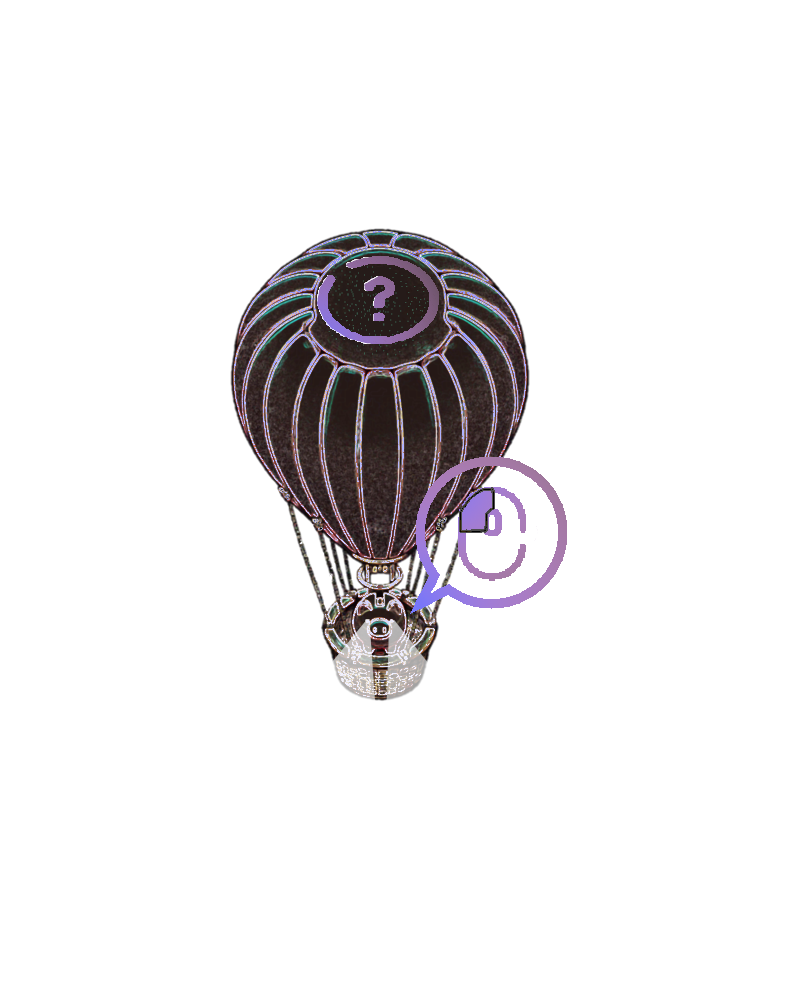
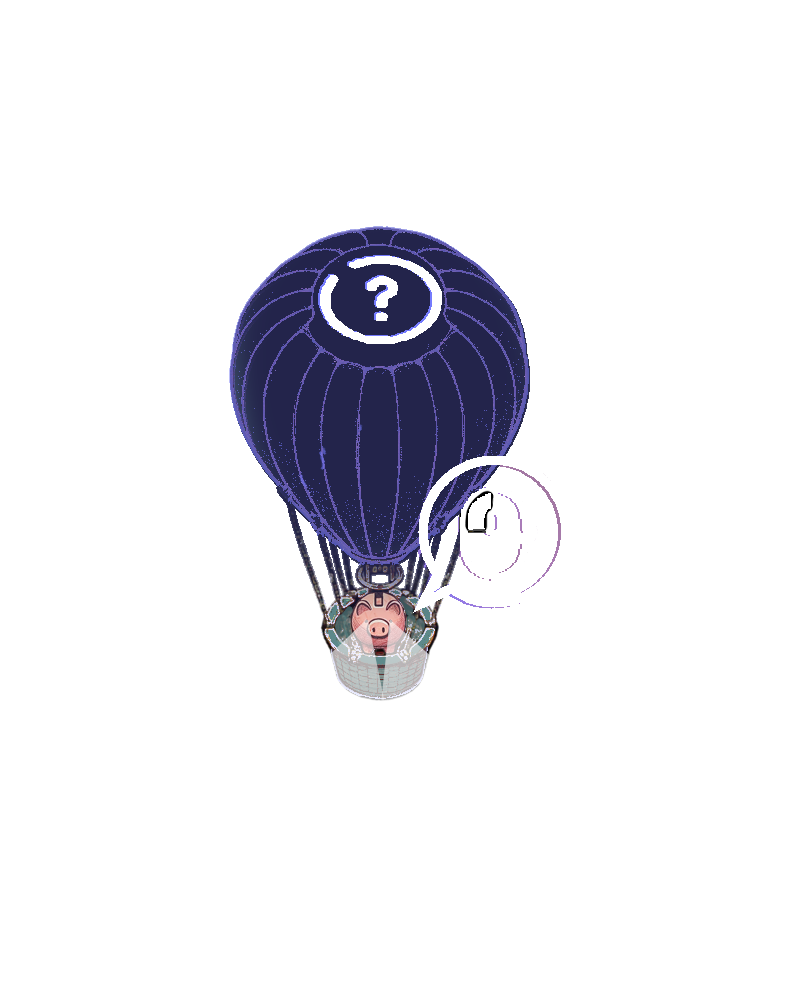
refactor: :dizzy: Dark-balloon refactors
Also made a clickable area of the balloon to ensure that user can't press random transparent parts of the png.

Changed region(s): [[0.2805, 0.217, 0.717, 0.713]]

diff --git a/src/components/frontpage/DailyTipBlimp.vue b/src/components/frontpage/DailyTipBlimp.vue
@@ -1,9 +1,12 @@
 <template>
   <div class="balloon-container">
-    <picture>
-      <img :src="darkMode ? '/BalloonPigDark.png' : '/BalloonPig.png'" alt="Balloon Pig" class="balloon" @click="showPopup = true"/>
+    <div class="clickable-balloon-area">
+      <div class="clickable-area" @click="showPopup=true"></div>
+      <picture>
+        <img :src="darkMode ? '/BalloonPigDark.png' : '/BalloonPig.png'" alt="Balloon Pig" class="balloon"/>
+      </picture>
+    </div>
 
-    </picture>
     <PopupComponent :is-visible="showPopup" @togglePopup="togglePopup">
       <template #content>
         <div class="popup-content" :class="{ 'dark-mode': darkMode }">
@@ -61,13 +64,23 @@ const togglePopup = () => {
   }
 }
 
+
+.clickable-balloon-area {
+  z-index: 800;
+  animation: floatAcross 110s infinite; /* Adjust time as needed */
+  pointer-events: auto;
+  width: 20%;
+  /* TODO: change width for mobile, or else the blimp is a tiny baby blimp */
+}
+
+
+
 .balloon-container {
   position: fixed;
   top: 20%;
   left: 0;
   width: 100%;
   height: 100%;
-  pointer-events: auto;
   overflow: visible;
   z-index: 800;
   pointer-events: none;
@@ -75,11 +88,21 @@ const togglePopup = () => {
 
 
 .balloon {
-  z-index: 800;
-  animation: floatAcross 110s infinite; /* Adjust time as needed */
-  width: 20%;
+  pointer-events: none;
+  width: 100%;
+}
+
+.clickable-area {
+  background: transparent;
+  z-index: 801;
+  /* Custom clickable square area of png. Perfectly crafted for width of 50%*/
+  position: absolute;
+  top: 23%;  /* adjust these values based on the image and the desired clickable area */
+  left: 28%;
+  width: 38%;  /* size of the clickable area */
+  height: 45%;
+  cursor: pointer;
   pointer-events: all;
-  /* TODO: change width for mobile, or else the blimp is a tiny baby blimp */
 }
 
 .backdrop {
@@ -87,7 +110,7 @@ const togglePopup = () => {
 }
 
 @media (max-width: 600px) {
-  .balloon {
+  .clickable-balloon-area {
     width: 50%; /* Increase the size on mobile */
     /* animation very janky on mobile */
   }
